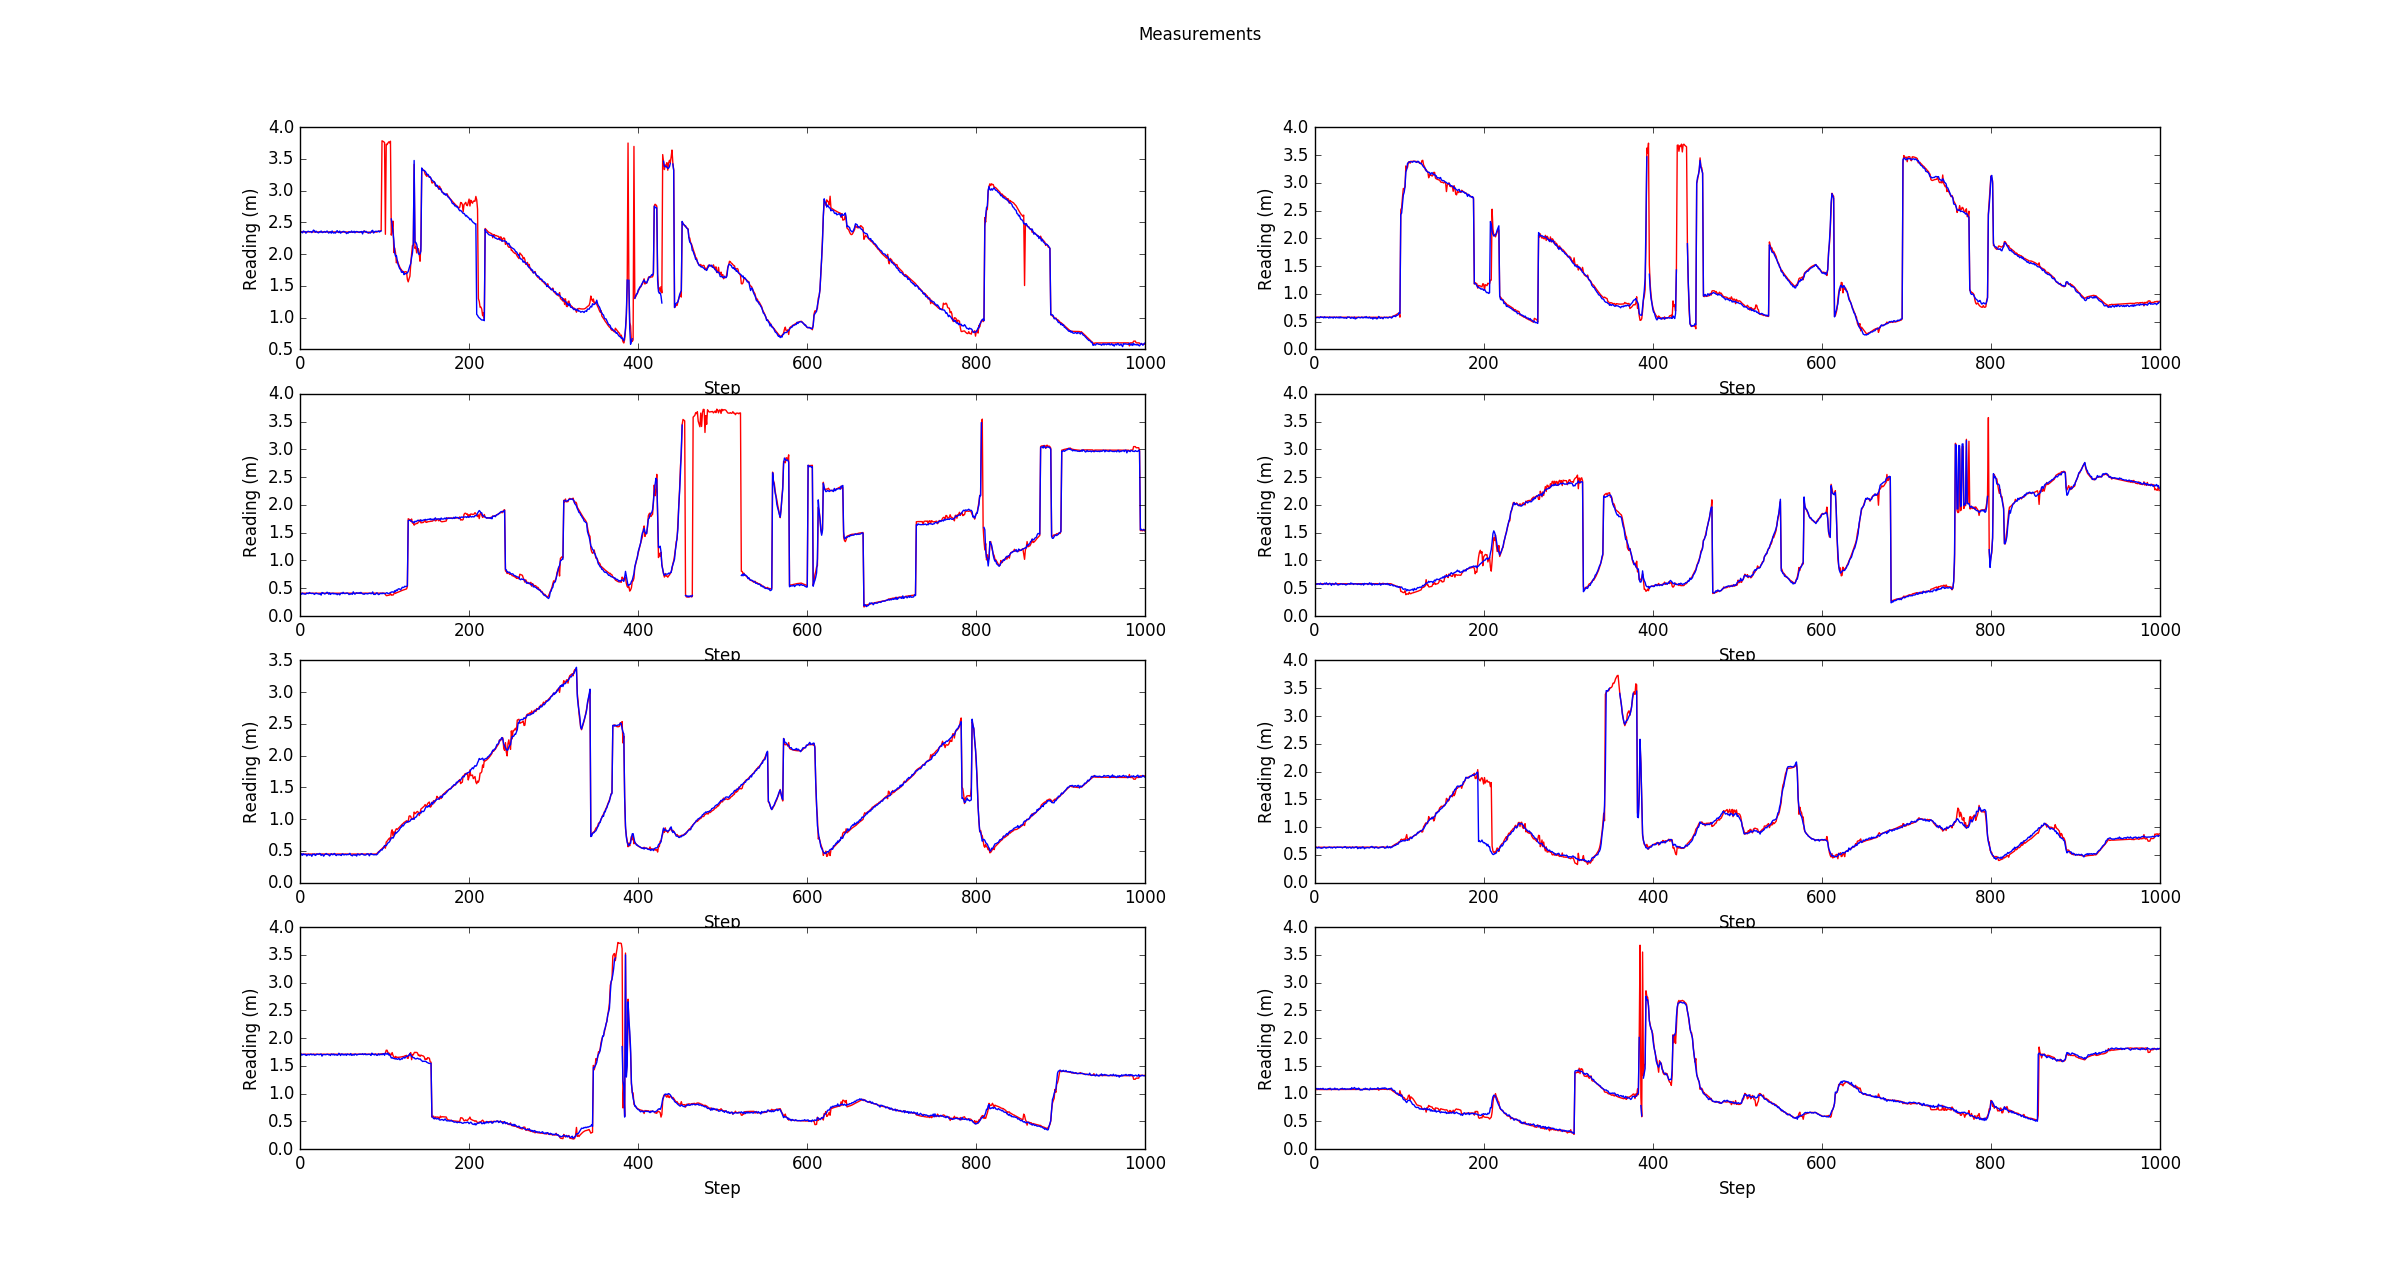
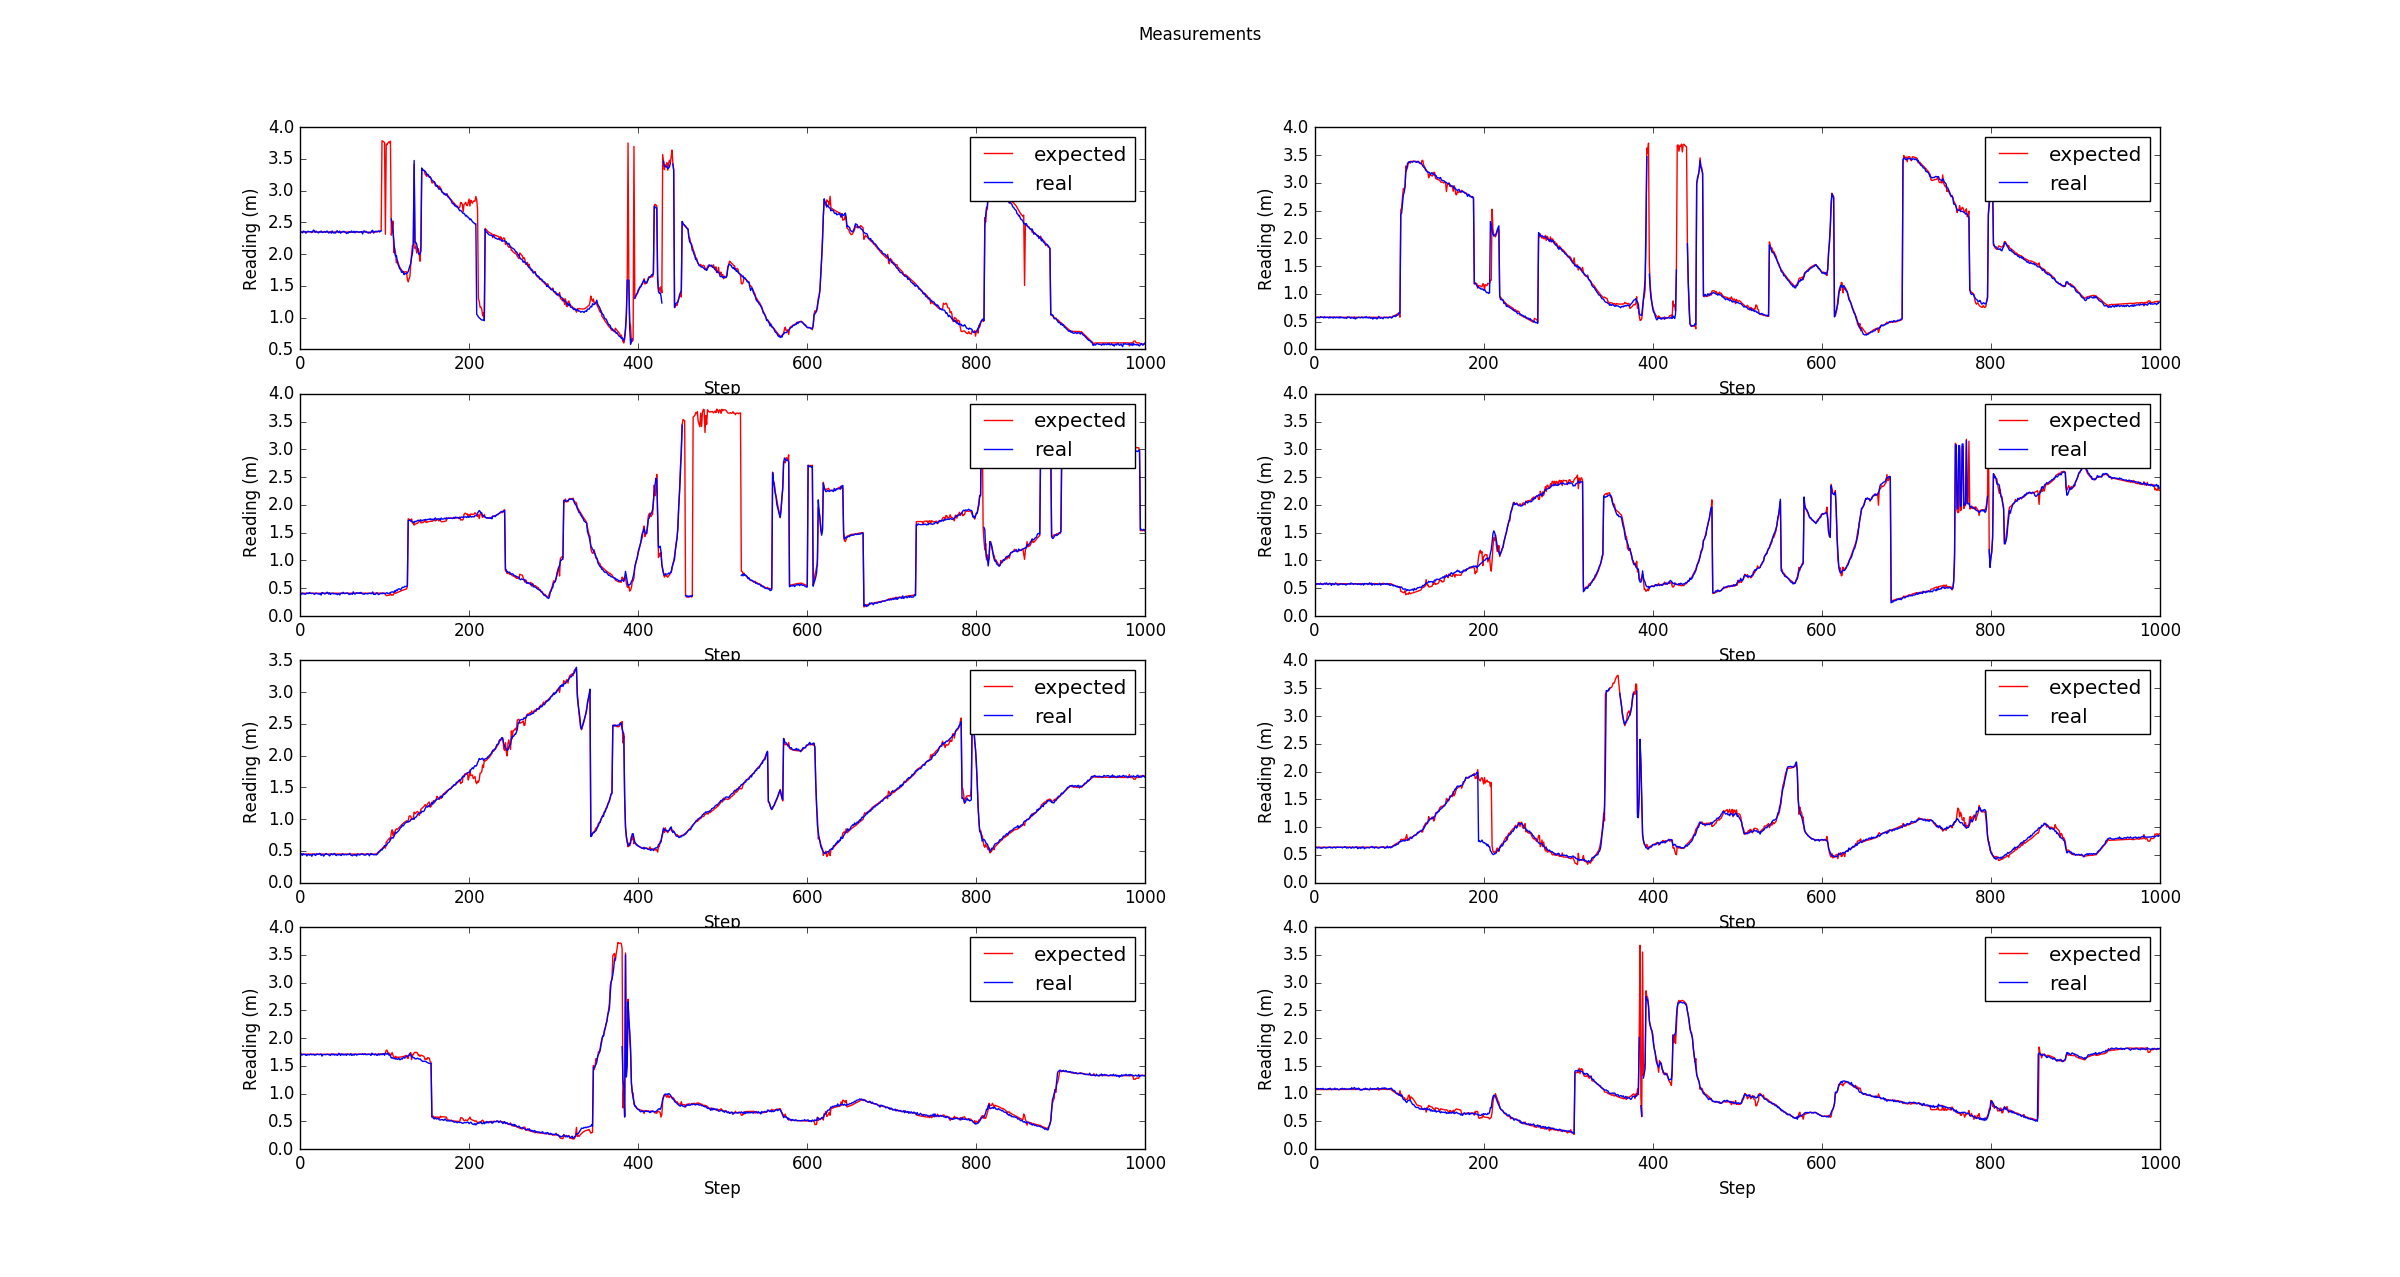
update results images

diff --git a/milestone2/scripts/particle_test.py b/milestone2/scripts/particle_test.py
@@ -8,7 +8,7 @@ import numpy as np
 import scipy.signal as sig
 
 MAP_FILE = "maps/rss_offset.json"
-MAX_LOG = 1200
+MAX_LOG = 1000
 map = Map(MAP_FILE)
 
 
@@ -21,18 +21,12 @@ def parseFileParticle(file):
         t = []
         s = []
         m = []
-        path = []
-        path.append(data["0path"])
-        path.append(data["1path"])
-        path.append(data["2path"])
-        path.append(data["3path"])
-        path.append(data["4path"])
-
-        path_np = np.array(data["0path"])
-        path_np = np.vstack((path_np, np.array(data["1path"])))
-        path_np = np.vstack((path_np, np.array(data["2path"])))
-        path_np = np.vstack((path_np, np.array(data["3path"])))
-        path_np = np.vstack((path_np, np.array(data["4path"])))
+        path_np = None
+        if "0path" in data.keys():
+            path_np = np.array(data["0path"])
+        for i in range(1, 5):
+            if "{}path".format(i) in data.keys():
+                path_np = np.vstack((path_np, np.array(data["{}path".format(i)])))
 
         for i in np.arange(1, MAX_LOG):
             r.append(data["{}rPose".format(i)])
@@ -83,7 +77,8 @@ def parseFileParticle(file):
                 '''
                 #for p in path:
                     #p = np.array(p)
-                ax.plot(path_np[:, 0], path_np[:, 1], c='g', label="trajectory", linewidth=2)
+                if path_np is not None:
+                    ax.plot(path_np[:, 0], path_np[:, 1], c='g', label="trajectory", linewidth=2)
                 ax.legend()
                 plt.title("True position of the robot w.r.t the planned trajectory")
                 plt.draw()
@@ -91,51 +86,57 @@ def parseFileParticle(file):
 
     r = np.array(r)
     t = np.array(t)
+    #r[:, 2] = ((r[:, 2] + np.pi) % (2*np.pi)) - np.pi
+    #t[:, 2] = ((t[:, 2] + np.pi) % (2*np.pi)) - np.pi
     m = np.array(m).reshape(-1, 8)
     s = np.array(s)
-    print(path_np.shape)
     #print(p.shape)
 
-    fs = 5.
-    cutoff = 0.2
-    order = 5.
+    #fs = 5.
+    #cutoff = 0.2
+    #order = 5.
 
-    nyquist = fs / 2.
+    #nyquist = fs / 2.
 
-    b, a = sig.butter(order, cutoff / nyquist)
-    if not np.all(np.abs(np.roots(a)) < 1):
-        raise PsolaError('Filter with cutoff at {} Hz is unstable given '
-                         'sample frequency {} Hz'.format(cutoff, fs))
-    r_x = sig.filtfilt(b, a, r[:, 0], method='gust')
-    r_y = sig.filtfilt(b, a, r[:, 1], method='gust')
-    r_yaw = sig.filtfilt(b, a, r[:, 2], method='gust')
+    #b, a = sig.butter(order, cutoff / nyquist)
+    #if not np.all(np.abs(np.roots(a)) < 1):
+    #    raise PsolaError('Filter with cutoff at {} Hz is unstable given '
+    #                     'sample frequency {} Hz'.format(cutoff, fs))
+    #r_x = sig.filtfilt(b, a, r[:, 0], method='gust')
+    #r_y = sig.filtfilt(b, a, r[:, 1], method='gust')
+    #r_yaw = sig.filtfilt(b, a, r[:, 2], method='gust')
 
     diff = m - s
 
     fig, ax = plt.subplots(2, 2)
     x = range(1, MAX_LOG)
-    ax[0, 0].plot(x, r[:, 0], 'r')
-    ax[0, 0].plot(x, r_x, 'k')
-    ax[0, 0].plot(x, t[:, 0], 'b')
+    ax[0, 0].plot(x, r[:, 0], 'r', label="estimated")
+    #ax[0, 0].plot(x, r_x, 'k')
+    ax[0, 0].plot(x, t[:, 0], 'b', label="ground truth")
     #ax[0, 0].plot(x, path_np[:, 0], 'g')
     ax[0, 0].set_xlabel("Step")
     ax[0, 0].set_ylabel("Position (m)")
     ax[0, 0].set_title("X position")
+    ax[0, 0].legend()
 
-    ax[0, 1].plot(x, r[:, 1], 'r')
-    ax[0, 1].plot(x, r_y, 'k')
-    ax[0, 1].plot(x, t[:, 1], 'b')
+    ax[0, 1].plot(x, r[:, 1], 'r', label="estimated")
+    #ax[0, 1].plot(x, r_y, 'k')
+    ax[0, 1].plot(x, t[:, 1], 'b', label="ground truth")
     #ax[0, 0].plot(x, path_np[:, 1], 'g')
     ax[0, 1].set_xlabel("Step")
     ax[0, 1].set_ylabel("Position (m)")
     ax[0, 1].set_title("Y position")
+    ax[0, 1].legend()
 
-    ax[1, 0].plot(x, r[:,2], 'r')
-    ax[1, 0].plot(x, r_yaw, 'k')
-    ax[1, 0].plot(x, t[:,2], 'b')
+    ax[1, 0].plot(x, r[:,2], 'r', label="estimated")
+    #ax[1, 0].plot(x, r_yaw, 'k')
+    ax[1, 0].plot(x, t[:,2], 'b', label="ground truth")
     ax[1, 0].set_xlabel("Step")
     ax[1, 0].set_ylabel("Position (m)")
     ax[1, 0].set_title("Yaw position")
+    ax[1, 0].legend()
+
+    ax[1, 1].set_visible(False)
 
     fig.suptitle("Pose evolution")
 
@@ -151,45 +152,53 @@ def parseFileParticle(file):
     ax2[3, 1].plot(x, diff[:, 7], 'g')
     '''
 
-    ax2[0, 0].plot(x, m[:, 0], 'r')
-    ax2[0, 0].plot(x, s[:, 0], 'b')
+    ax2[0, 0].plot(x, m[:, 0], 'r', label="expected")
+    ax2[0, 0].plot(x, s[:, 0], 'b', label="real")
     ax2[0, 0].set_xlabel("Step")
     ax2[0, 0].set_ylabel("Reading (m)")
+    ax2[0, 0].legend()
 
-    ax2[0, 1].plot(x, m[:, 1], 'r')
-    ax2[0, 1].plot(x, s[:, 1], 'b')
+    ax2[0, 1].plot(x, m[:, 1], 'r', label="expected")
+    ax2[0, 1].plot(x, s[:, 1], 'b', label="real")
     ax2[0, 1].set_xlabel("Step")
     ax2[0, 1].set_ylabel("Reading (m)")
+    ax2[0, 1].legend()
 
-    ax2[1, 0].plot(x, m[:, 2], 'r')
-    ax2[1, 0].plot(x, s[:, 2], 'b')
+    ax2[1, 0].plot(x, m[:, 2], 'r', label="expected")
+    ax2[1, 0].plot(x, s[:, 2], 'b', label="real")
     ax2[1, 0].set_xlabel("Step")
     ax2[1, 0].set_ylabel("Reading (m)")
+    ax2[1, 0].legend()
 
-    ax2[1, 1].plot(x, m[:, 3], 'r')
-    ax2[1, 1].plot(x, s[:, 3], 'b')
+    ax2[1, 1].plot(x, m[:, 3], 'r', label="expected")
+    ax2[1, 1].plot(x, s[:, 3], 'b', label="real")
     ax2[1, 1].set_xlabel("Step")
     ax2[1, 1].set_ylabel("Reading (m)")
+    ax2[1, 1].legend()
 
-    ax2[2, 0].plot(x, m[:, 4], 'r')
-    ax2[2, 0].plot(x, s[:, 4], 'b')
+    ax2[2, 0].plot(x, m[:, 4], 'r', label="expected")
+    ax2[2, 0].plot(x, s[:, 4], 'b', label="real")
     ax2[2, 0].set_xlabel("Step")
     ax2[2, 0].set_ylabel("Reading (m)")
+    ax2[2, 0].legend()
 
-    ax2[2, 1].plot(x, m[:, 5], 'r')
-    ax2[2, 1].plot(x, s[:, 5], 'b')
+    ax2[2, 1].plot(x, m[:, 5], 'r', label="expected")
+    ax2[2, 1].plot(x, s[:, 5], 'b', label="real")
     ax2[2, 1].set_xlabel("Step")
     ax2[2, 1].set_ylabel("Reading (m)")
+    ax2[2, 1].legend()
 
-    ax2[3, 0].plot(x, m[:, 6], 'r')
-    ax2[3, 0].plot(x, s[:, 6], 'b')
+    ax2[3, 0].plot(x, m[:, 6], 'r', label="expected")
+    ax2[3, 0].plot(x, s[:, 6], 'b', label="real")
     ax2[3, 0].set_xlabel("Step")
     ax2[3, 0].set_ylabel("Reading (m)")
+    ax2[3, 0].legend()
 
-    ax2[3, 1].plot(x, m[:, 7], 'r')
-    ax2[3, 1].plot(x, s[:, 7], 'b')
+    ax2[3, 1].plot(x, m[:, 7], 'r', label="expected")
+    ax2[3, 1].plot(x, s[:, 7], 'b', label="real")
     ax2[3, 1].set_xlabel("Step")
     ax2[3, 1].set_ylabel("Reading (m)")
+    ax2[3, 1].legend()
 
     fig2.suptitle("Measurements")
     plt.show()
